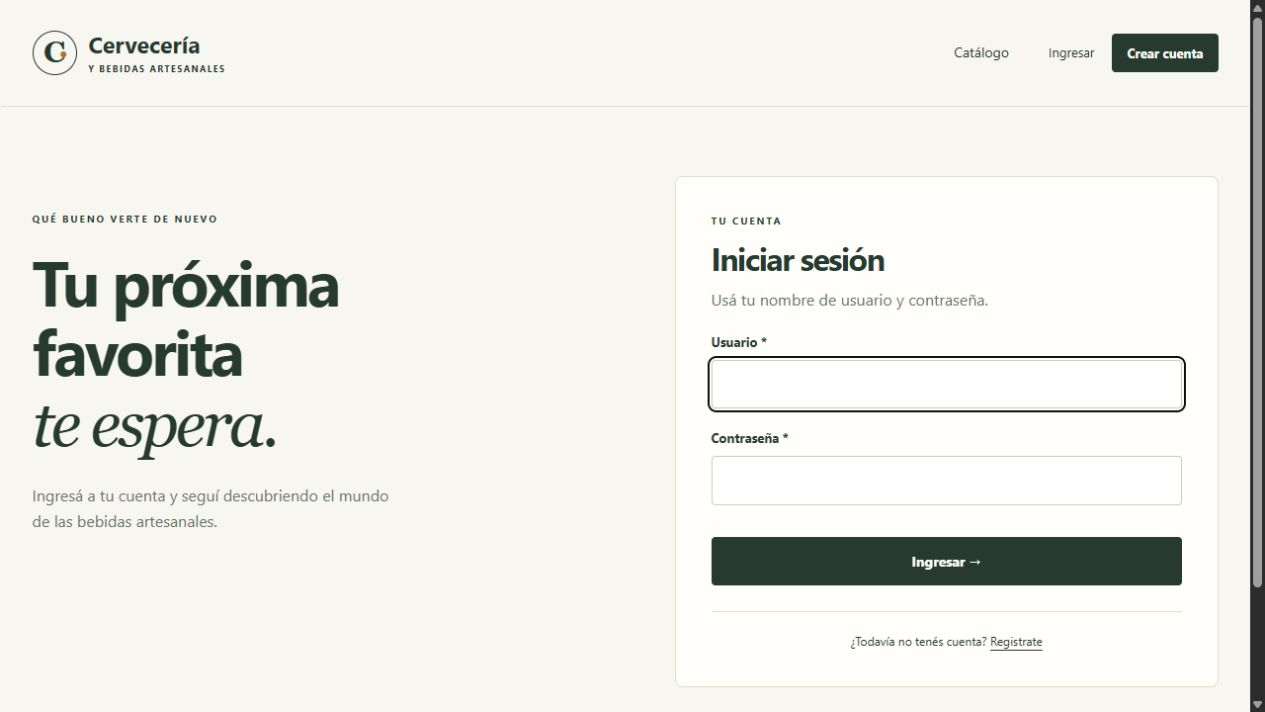
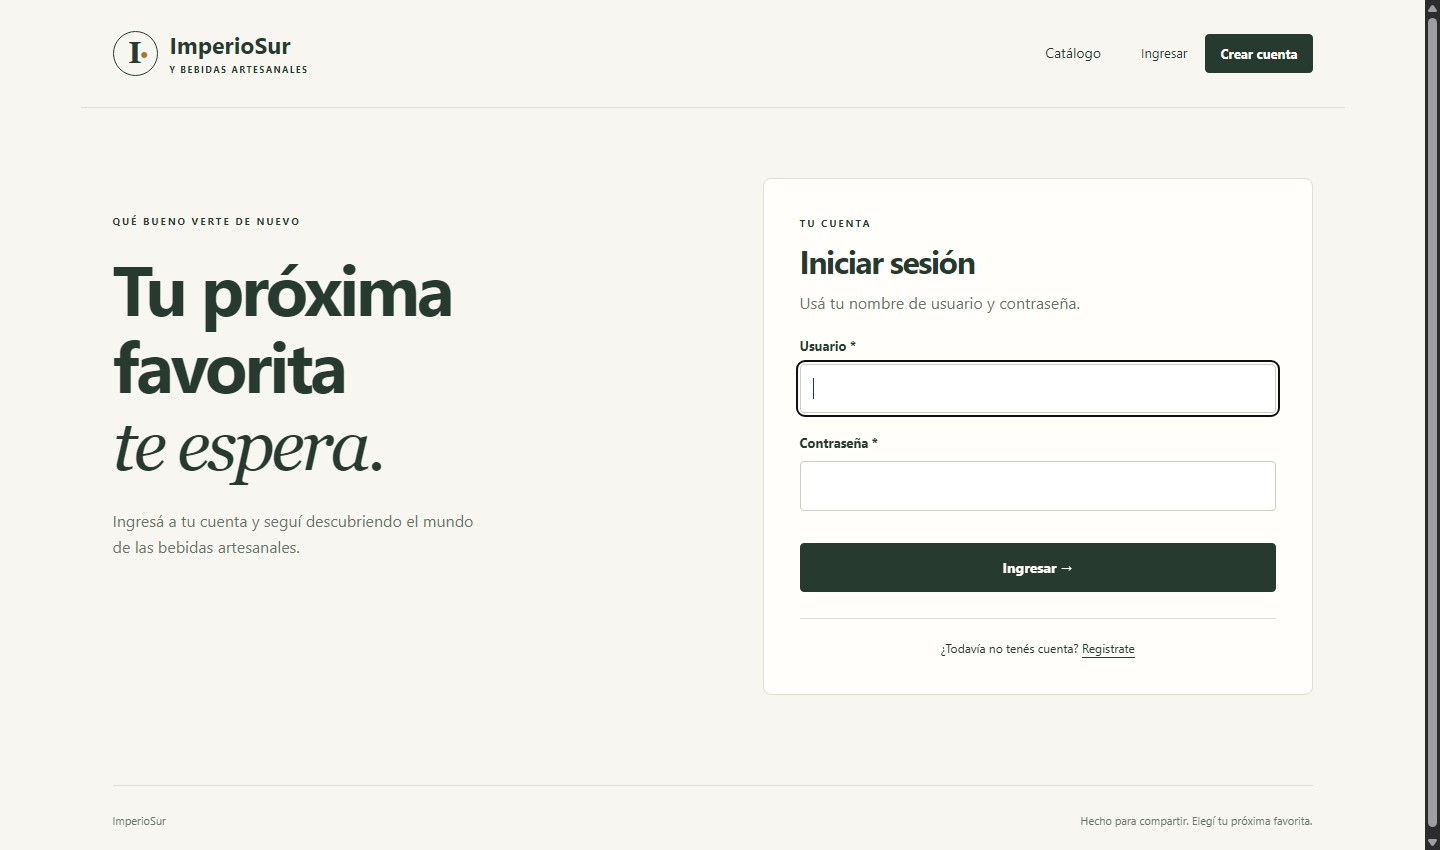
Documentar accesos del backend y vestirlos con la marca ImperioSur

diff --git a/templates/inicio.html b/templates/inicio.html
@@ -10,6 +10,28 @@
   </div>
   <div class="hero-arte" aria-hidden="true"><div class="sello">EL SABOR<br>DE LO AUTÉNTICO</div><div class="botella botella-uno"><div class="cuello"></div><div class="etiqueta-botella"><span>SELECCIÓN</span><strong>IPA</strong><span>ARTESANAL</span><div class="lineas"></div></div></div><div class="botella botella-dos"><div class="cuello"></div><div class="etiqueta-botella"><span>SELECCIÓN</span><strong>PORTER</strong><span>ARTESANAL</span><div class="lineas"></div></div></div><div class="nota-arte">BUENA COMPAÑÍA.<br>MEJORES MOMENTOS.</div></div>
 </section>
+<section class="seccion accesos-backend" aria-labelledby="titulo-accesos">
+  <p class="etiqueta">IMPERIOSUR · BACKEND</p>
+  <h2 id="titulo-accesos">Explorá el sistema</h2>
+  <div class="grilla-accesos">
+    <a href="{% url 'admin:index' %}">
+      <strong>Administración</strong>
+      <span>Gestioná el catálogo, los usuarios y los pedidos.</span>
+    </a>
+    <a href="{% url 'catalogo_api:producto-list' %}">
+      <strong>API navegable</strong>
+      <span>Consultá los productos y probá la paginación y los filtros.</span>
+    </a>
+    <a href="{% url 'swagger-ui' %}">
+      <strong>Swagger</strong>
+      <span>Explorá las operaciones y sus parámetros.</span>
+    </a>
+    <a href="{% url 'schema' %}">
+      <strong>Esquema OpenAPI</strong>
+      <span>Descargá el contrato de la API.</span>
+    </a>
+  </div>
+</section>
 <section class="seccion">
   <div class="titulo-seccion"><div><p class="etiqueta">NUESTRO CATÁLOGO</p><h2>Para empezar a descubrir</h2></div><a class="enlace" href="{% url 'catalogo_web:productos' %}">Ver todos los productos →</a></div>
   <div class="grilla-productos">{% for producto in productos_recientes %}{% include 'catalogo/tarjeta_producto.html' %}{% empty %}<div class="vacio ancho"><h3>El catálogo está por empezar.</h3><p>Pronto vas a encontrar acá nuestras bebidas artesanales.</p>{% if puede_gestionar_catalogo %}<a class="boton secundario" href="{% url 'catalogo_web:producto_crear' %}">Cargar el primer producto</a>{% endif %}</div>{% endfor %}</div>

diff --git a/templates/base.html b/templates/base.html
@@ -10,7 +10,7 @@
 <body>
   <a class="saltar" href="#contenido">Ir al contenido</a>
   <header class="cabecera">
-    <a class="marca" href="{% url 'inicio' %}"><span class="simbolo" aria-hidden="true">C<span>·</span></span><span>Cervecería<small>Y BEBIDAS ARTESANALES</small></span></a>
+    <a class="marca" href="{% url 'inicio' %}"><span class="simbolo" aria-hidden="true">I<span>·</span></span><span>{{ nombre_tienda }}<small>Y BEBIDAS ARTESANALES</small></span></a>
     <nav aria-label="Navegación principal">
       <a href="{% url 'catalogo_web:productos' %}">Catálogo</a>
       {% if perms.catalogo.view_categoria %}<a href="{% url 'catalogo_web:categorias' %}">Categorías</a>{% endif %}

diff --git a/static/css/tienda.css b/static/css/tienda.css
@@ -779,3 +779,31 @@ th {
     letter-spacing:.09em
   }
 }
+
+.accesos-backend {
+  padding:clamp(24px,4vw,44px);
+  border-radius:18px;
+  background:var(--tinta);
+  color:var(--papel);
+}
+.accesos-backend .etiqueta {
+  color:var(--ambar);
+}
+.grilla-accesos {
+  display:grid;
+  grid-template-columns:repeat(auto-fit,minmax(min(100%,210px),1fr));
+  gap:12px;
+}
+.grilla-accesos a {
+  display:grid;
+  gap:5px;
+  padding:16px;
+  border:1px solid var(--ambar);
+  border-radius:10px;
+  text-decoration:none;
+}
+.grilla-accesos a:hover,
+.grilla-accesos a:focus-visible {
+  background:var(--ambar);
+  color:var(--tinta);
+}

diff --git a/usuarios/test_autenticacion.py b/usuarios/test_autenticacion.py
@@ -28,7 +28,7 @@ class AutenticacionWebTests(TestCase):
             with self.subTest(nombre=nombre):
                 respuesta = self.client.get(reverse(nombre))
                 self.assertEqual(respuesta.status_code, 200)
-                self.assertEqual(respuesta.context['nombre_tienda'], 'Cervecería y Bebidas Artesanales')
+                self.assertEqual(respuesta.context['nombre_tienda'], 'ImperioSur')
         self.assertContains(self.client.get(reverse('usuarios:login')), 'csrfmiddlewaretoken')
 
     def test_registro_crea_cliente_sin_elevar_privilegios_y_abre_sesion(self):

diff --git a/config/settings.py b/config/settings.py
@@ -143,7 +143,7 @@ STATICFILES_DIRS = [BASE_DIR / 'static']
 LOGIN_URL = 'usuarios:login'
 LOGIN_REDIRECT_URL = 'inicio'
 LOGOUT_REDIRECT_URL = 'inicio'
-NOMBRE_TIENDA = 'Cervecería y Bebidas Artesanales'
+NOMBRE_TIENDA = 'ImperioSur'
 
 REST_FRAMEWORK = {
     'DEFAULT_PAGINATION_CLASS': 'catalogo.pagination.CatalogoPagination',

diff --git a/README.md b/README.md
@@ -21,19 +21,48 @@ Python, Django, Django REST Framework, SQLite y uv. Las dependencias se fijan en
 La consigna vigente requiere al menos **10 modelos propios relacionados**. A los seis modelos iniciales se suman Presentacion, Proveedor, DireccionEnvio y Resena. La planificación de campos, relaciones y reglas se encuentra en [docs/modelos.md](docs/modelos.md).
 
 ```mermaid
-erDiagram
-    Usuario ||--o{ Pedido : realiza
-    Usuario ||--o{ DireccionEnvio : registra
-    DireccionEnvio o|--o{ Pedido : recibe
-    Pedido ||--o{ DetallePedido : contiene
-    Producto ||--o{ DetallePedido : integra
-    Categoria ||--o{ Producto : clasifica
-    Marca ||--o{ Producto : identifica
-    Presentacion o|--o{ Producto : describe
-    Proveedor }o--o{ Producto : abastece
-    Usuario ||--o{ Resena : escribe
-    Producto ||--o{ Resena : recibe
+flowchart LR
+    subgraph catalogo["Catálogo"]
+        direction TB
+        Categoria["Categoría"]
+        Marca["Marca"]
+        Presentacion["Presentación"]
+        Proveedor["Proveedor"]
+        Producto["Producto"]
+        Resena["Reseña"]
+    end
+    subgraph pedidos["Pedidos"]
+        direction TB
+        Pedido["Pedido"]
+        DetallePedido["Detalle de pedido"]
+    end
+    subgraph usuarios["Usuarios"]
+        direction TB
+        Usuario["Usuario"]
+        DireccionEnvio["Dirección de envío"]
+    end
+
+    Categoria -->|"1 a 0..N"| Producto
+    Marca -->|"1 a 0..N"| Producto
+    Presentacion -->|"0..1 a 0..N"| Producto
+    Proveedor <-->|"0..N a 0..N"| Producto
+    Producto -->|"1 a 0..N"| Resena
+    Usuario -->|"1 a 0..N"| Resena
+    Usuario -->|"1 a 0..N"| DireccionEnvio
+    Usuario -->|"1 a 0..N"| Pedido
+    DireccionEnvio -->|"0..1 a 0..N"| Pedido
+    Pedido -->|"1 a 0..N"| DetallePedido
+    Producto -->|"1 a 0..N"| DetallePedido
+
+    classDef verde fill:#263a30,stroke:#e9b857,color:#fffefa
+    classDef ambar fill:#e9b857,stroke:#ad7625,color:#263a30
+    classDef crema fill:#f8f6f0,stroke:#677469,color:#263a30
+    class Categoria,Marca,Presentacion,Proveedor,Producto,Resena verde
+    class Pedido,DetallePedido ambar
+    class Usuario,DireccionEnvio crema
 ```
+
+Cada conexión indica cuántos registros pueden relacionarse. Por ejemplo, un pedido tiene una dirección opcional (`0..1`) y puede incluir varios detalles (`0..N`).
 
 ## Ejecución local
 
@@ -79,6 +108,20 @@ construye y prueba el contenedor en GitHub Actions.
 - API de autenticación por token: `/api/auth/login/`, `/api/auth/me/` y `/api/auth/logout/`. También se habilitan las sesiones y el acceso navegable en `/api-auth/login/`.
 
 Los pasos de prueba, la matriz de permisos y el contrato para integrar la API se detallan en [docs/autenticacion.md](docs/autenticacion.md).
+
+### Rutas para probar el backend
+
+Una vez iniciado el servidor en el puerto 8000, podés abrir estas páginas en tu equipo.
+
+| Página | Abrir |
+| --- | --- |
+| Bienvenida y accesos | [`/`](http://127.0.0.1:8000/) |
+| Catálogo web | [`/catalogo/productos/`](http://127.0.0.1:8000/catalogo/productos/) |
+| Administración de Django | [`/admin/`](http://127.0.0.1:8000/admin/) |
+| API navegable de productos | [`/api/productos/`](http://127.0.0.1:8000/api/productos/) |
+| Swagger | [`/api/docs/`](http://127.0.0.1:8000/api/docs/) |
+| Esquema OpenAPI | [`/api/schema/`](http://127.0.0.1:8000/api/schema/) |
+| Inicio de sesión | [`/usuarios/login/`](http://127.0.0.1:8000/usuarios/login/) |
 
 ### Capturas de funcionamiento
 
